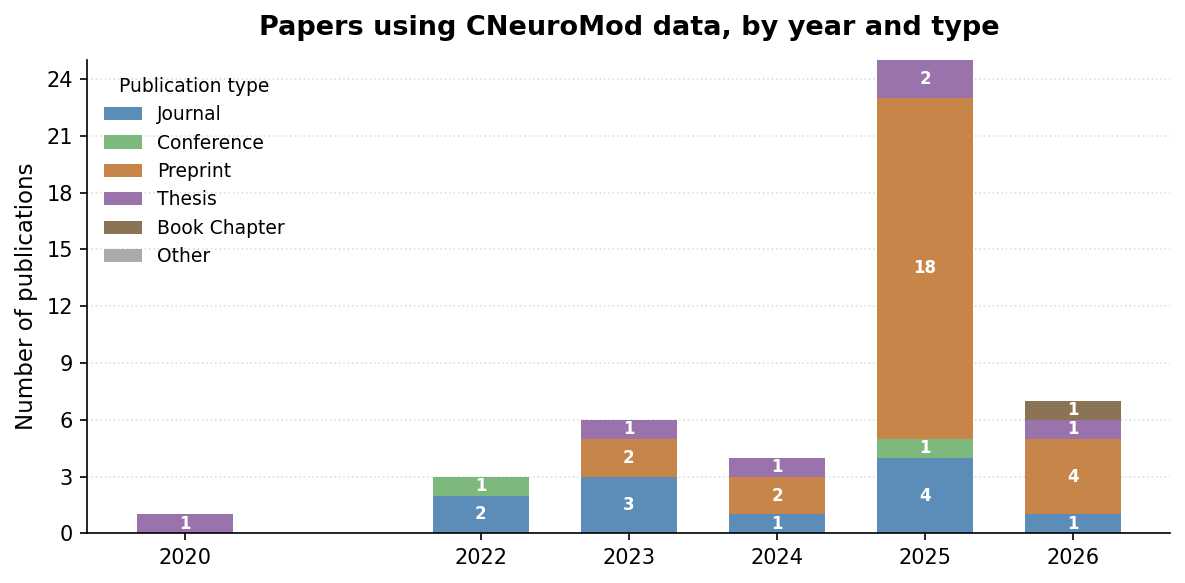
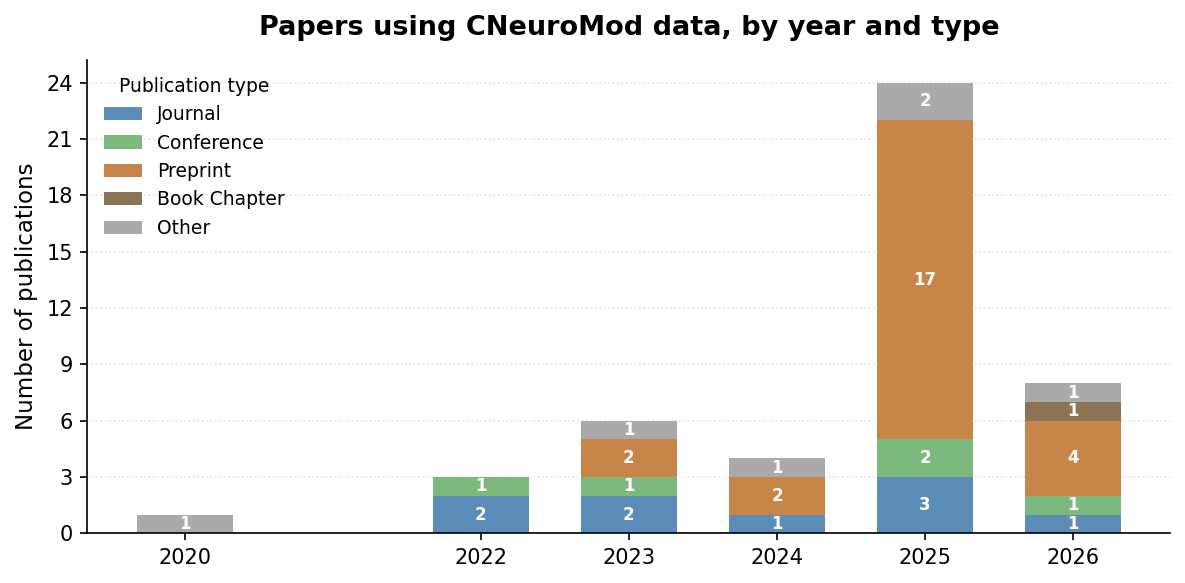
Add gray gradient shading between depth-vs-breadth isolines
Fill bands between consecutive iso-hour hyperbolas with decreasing black
alpha (darkest below 50h, lightest near 10kh), plus explicit axis limits
to prevent fill_between from auto-extending the log-scale axes.

diff --git a/analysis/visualisation.py b/analysis/visualisation.py
@@ -183,6 +183,16 @@ def make_neuroimaging_depthvsbreadth(pivot_per_subject, pivot_total, datasets_li
     x_min = min(p[1] for p in points)
     x_max = max(p[1] for p in points)
     x_pad = np.linspace(x_min * 0.4, x_max * 2.5, 200)
+
+    # Gray gradient bands — darker where total neuroimaging hours are lower
+    iso_levels = [50, 200, 1000, 5000, 10000]
+    band_alphas = [0.18, 0.13, 0.08, 0.05, 0.02]
+    ax.fill_between(x_pad, 1e-3, iso_levels[0] / x_pad,
+                    color="black", alpha=band_alphas[0], zorder=0)
+    for i in range(len(iso_levels) - 1):
+        ax.fill_between(x_pad, iso_levels[i] / x_pad, iso_levels[i + 1] / x_pad,
+                        color="black", alpha=band_alphas[i + 1], zorder=0)
+
     for H in [50, 200, 1000, 5000, 10000]:
         label = f"{H}h" if H < 1000 else f"{H // 1000}kh"
         y_iso = H / x_pad
@@ -207,6 +217,10 @@ def make_neuroimaging_depthvsbreadth(pivot_per_subject, pivot_total, datasets_li
 
     ax.set_xscale("log")
     ax.set_yscale("log")
+    y_vals = [n_sub for _, _, n_sub in points]
+    x_vals = [x for _, x, _ in points]
+    ax.set_xlim(min(x_vals) * 0.3, max(x_vals) * 3)
+    ax.set_ylim(min(y_vals) * 0.3, max(y_vals) * 3)
     ax.set_xlabel("Neuroimaging hours per subject (fMRI + EEG + MEG + iEEG)", fontsize=10)
     ax.set_ylabel("Number of subjects", fontsize=10)
     ax.set_title("Neuroimaging depth vs. breadth", fontsize=12, fontweight="bold")